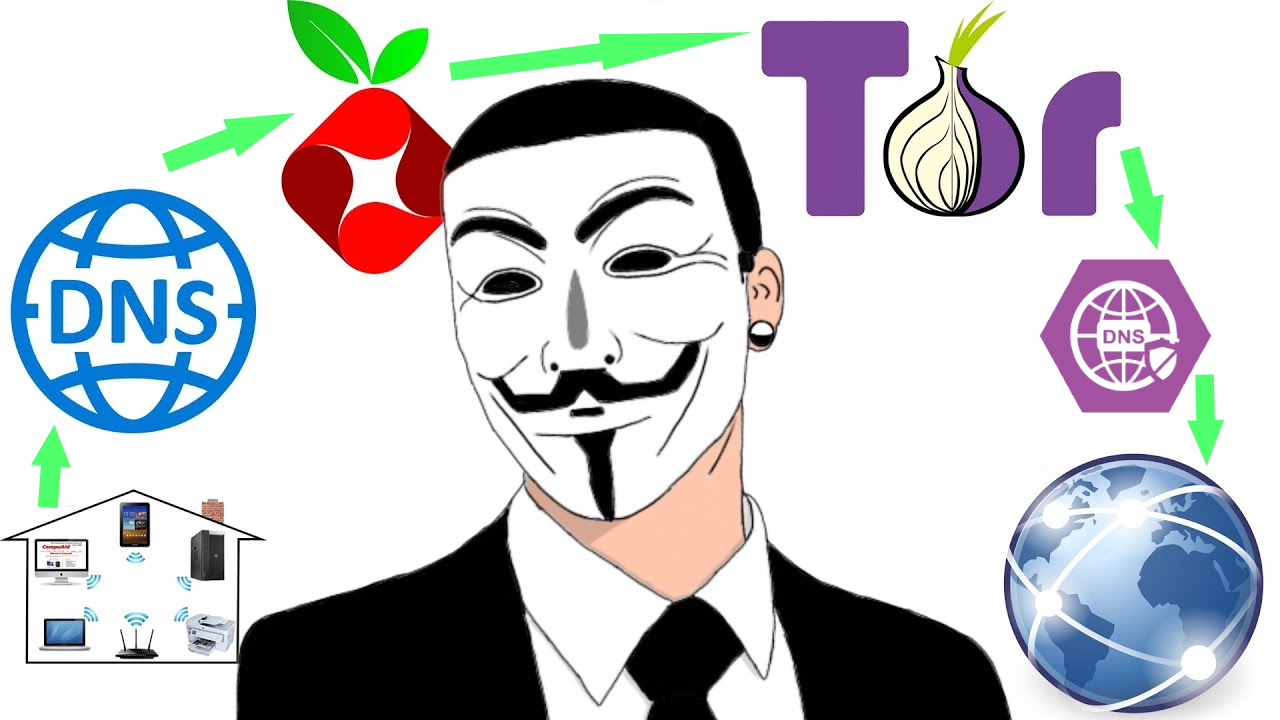
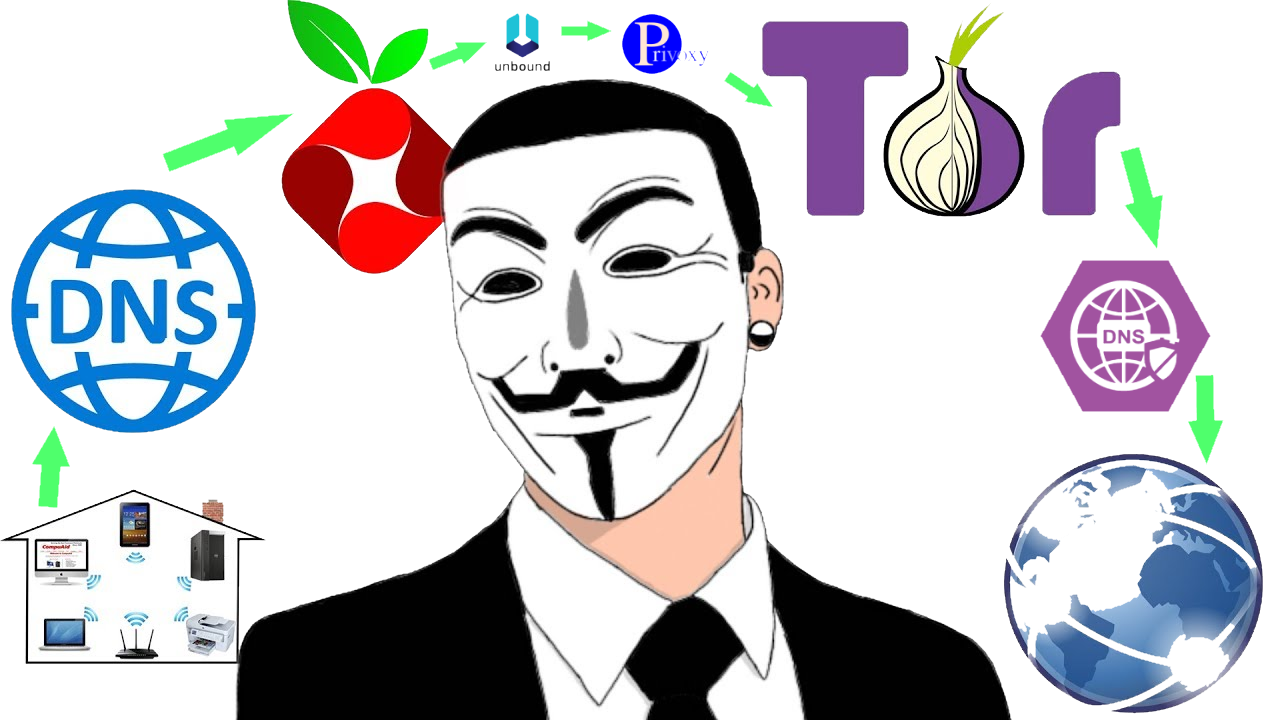
small updates to first 2 articles of the 'A little less conspicuous' series

diff --git a/_posts/2021-09-26-post-a-little-less-conspicuous-dns-part2-4.md b/_posts/2021-09-26-post-a-little-less-conspicuous-dns-part2-4.md
@@ -1,7 +1,7 @@
 ---
 title: "A little less conspicuous - Part 2: The DNS Sinkhole"
-date: 2021-09-25T20:00:00+02:00
-last_modified_at: 2021-09-25T20:00:00+02:00
+date: 2021-09-26T12:00:00+02:00
+last_modified_at: 2021-09-26T12:00:00+02:00
 header:
   # image: /assets/images/header-banner.png
   og_image: /assets/images/screen20210925005.png
@@ -15,9 +15,10 @@ tags:
   - Anonymous
   - HyperV
   - DietPi
-  - Pi-hole
-  - Unbound
   - DNS
+  - Pi-hole
+  - DNSMasq
+  - Unbound
   - DoT
   - DNS-over-TLS
 variables:
@@ -47,7 +48,7 @@ This article and follow-ups have no ambitions to totally anonymize anyone on the
 \
 The proposed setup is meant for demo purposes only and certainly not production ready without extra precautions and explanations put in place. \
 \
-The packages, distributions and commands used and referred to in this article are valid for the most recent software versions available at the date of article publication. There is no guarantee the routines described here will keep working at a later date.\
+The packages, distributions and commands used and referred to in this article are valid for the most recent software versions available at the date of article publication. There is no guarantee the routines and packages described here will keep working at a later date.\
 \
 Furthermore rest assured, since the internet (no capital here!) was created with absolutely no security or privacy in mind, it will never deliver on any promise of these concepts. But why hand-over all your data on a platter and be profiled? It's like peeing naked in the middle of Grand Central Station and have everyone stare at you, would you really? At least put on a dress and pee in a bucket underneath you, doing that some people won't even notice you are there. \
 \
@@ -138,7 +139,7 @@ You now have a running instance of a DietPI Linux distribution!
             forward-addr: 116.202.176.26@853#dot.libredns.gr    # LibreDNS (DE)
         ```
 
-      * It is possible to use your own DNS forwarders (forward-addr), but these should support DNS-over-TLS (DoT)
+      * It is possible to use your own DNS forwarders (forward-addr), but these should support DNS-over-TLS (DoT) and it is recommended they support DNSSEC validation as well.
         * Check [this list][5] for good ones.
       * Unbound will use round-robin to communicate with these forwarders so it is wise to have a few more available here, but at least two!
       * Check config: `unbound-checkconf`
@@ -217,7 +218,7 @@ You now have a running instance of a DietPI Linux distribution!
     * DHCP Server 'Client Scope' Configuration(s)
     * Router WAN configuration
   * Optional: Disable 'Outgoing WAN connections' using ports 53, 853 (TCP/UDP) for all devices except {{ page.variables.ServerIP1 }}
-    * Pi-hole will only use TCP port 853 btw, and after following part 4 of these series not even that. So you could do the blocking for your whole network at a later time or split up the proposed firewall rules
+    * Pi-hole (actually Unbound) will only use TCP port 853 btw, and after following Part 4 of these series not even that. So you could do the blocking for your whole network at a later time or split up the proposed firewall rules
   * Optional: Totally block any device with hard-coded (Secure) DNS settings from accessing the internet.
 
 **:heavy_check_mark: Congratulations** \
@@ -237,7 +238,7 @@ This series comprises of 4 parts:
 3. Part 3: [A little less conspicuous - The Tor Proxy][3] on running your own Tor SOCKS5 Proxy + Privoxy HTTP Proxy on DietPi
    * Requirements: None, can run Standalone
    * Achieves: Have the option to 'go anonymous' on the web when you want it, also for mobile devices (iOS, Android)
-4. Part 4: [A little less conspicuous - Obscure DNS traffic][4] on routing your DNS Traffic through Tor
+4. Part 4: [A little less conspicuous - Obscuring DNS traffic][4] on routing your DNS Traffic through Tor
    * Requirements: Parts 2 and 3
    * Achieves: Obscure already Secure DNS-over-TLS Traffic from your DNS resolvers
 
@@ -263,9 +264,11 @@ This series comprises of 4 parts:
 *[Privoxy]: Privoxy is a non-caching web proxy with advanced filtering capabilities for enhancing privacy.
 *[CA]: A certification authority (CA) is responsible for attesting to the identity of users, computers, and organizations. The CA authenticates an entity and vouches for that identity by issuing a digitally signed certificate. The CA can also manage, revoke, and renew certificates.
 *[FQDN]: A fully qualified domain name (FQDN), sometimes also referred to as an absolute domain name, is a domain name that specifies its exact location in the tree hierarchy of the Domain Name System (DNS). It specifies all domain levels, including the top-level domain and the root zone.
-*[DoT]: DNS over TLS
+*[DoT]: DNS over TLS (DoT) is a network security protocol for encrypting and wrapping Domain Name System queries and answers via the Transport Layer Security protocol. The goal of the method is to increase user privacy and security by preventing eavesdropping and manipulation of DNS data via man-in-the-middle attacks.
 *[DoToT]: DNS over TLS over Tor
+*[DoH]: DNS over HTTPS is a protocol for performing remote Domain Name System resolution via the common HTTPS protocol. A goal of the method is to increase user privacy and security by preventing eavesdropping and manipulation of DNS data by man-in-the-middle attacks by using the HTTPS protocol to encrypt the data between the DoH client and the DoH-based DNS resolver.
 *[IaC]: Infrastructure as Code (IaC) is the management of infrastructure (networks, virtual machines, load balancers, and connection topology) in a descriptive model, using the same versioning as DevOps team uses for source code.
+*[DNSSEC]: The Domain Name System Security Extensions is a suite of extension specifications by the Internet Engineering Task Force for securing data exchanged in the Domain Name System in Internet Protocol networks.
 
 <!-- End Abbreviations -->
 

diff --git a/_posts/2021-09-25-post-a-little-less-conspicuous-introduction-part1-4.md b/_posts/2021-09-25-post-a-little-less-conspicuous-introduction-part1-4.md
@@ -42,7 +42,7 @@ This article and follow-ups have no ambitions to totally anonymize anyone on the
 \
 The proposed setup is meant for demo purposes only and certainly not production ready without extra precautions and explanations put in place. \
 \
-The packages, distributions and commands used and referred to in this article are valid for the most recent software versions available at the date of article publication. There is no guarantee the routines described here will keep working at a later date.\
+The packages, distributions and commands used and referred to in this article are valid for the most recent software versions available at the date of article publication. There is no guarantee the routines and packages described here will keep working at a later date.\
 \
 Furthermore rest assured, since the internet (no capital here!) was created with absolutely no security or privacy in mind, it will never deliver on any promise of these concepts. But why hand-over all your data on a platter and be profiled? It's like peeing naked in the middle of Grand Central Station and have everyone stare at you, would you really? At least put on a dress and pee in a bucket underneath you, doing that some people won't even notice you are there. \
 \
@@ -89,7 +89,7 @@ For best results and certainly if you want to service an entire local area netwo
 
 ## Full architecture to be achieved
 
-This and further articles in this series all count up to the following flexible architecture where it is possible to choose a security / privacy model that suits **your** purpose. Part 2 and Part 3 can be set-up and be used 'on demand' fully separated. It is only when Part 4 is considered that both technologies presented in Part 2 and 3 are combined and required to operate together.
+This and further articles in this series all count up to the following flexible architecture where it is possible to choose a security / privacy model that suits **your** purpose. Part 2 and Part 3 can be set-up and be used 'on demand' fully separated. It is only when Part 4 is considered that both technologies presented in Part 2 and 3 are combined and as such both are required to operate together. The red texts in the architecture diagram below are specific for Part 4 of this series.
 
 As I did this setup three times, in preparation of writing this series, it only took me an hour to have the entire setup (Part 2, 3 and 4) replicated (reusing existing web server certificates exempted). all this without any further IaC optimizations I must add. Pipelining this might be worth the effort at some point (note to self).
 
@@ -130,7 +130,7 @@ This series comprises of four parts:
 3. Part 3: [A little less conspicuous - The Tor Proxy][3] on running your own Tor SOCKS5 Proxy + Privoxy HTTP Proxy on DietPi
    * Requirements: None, can run Standalone
    * Achieves: Have the option to 'go anonymous' on the web when you want it, also for mobile devices (iOS, Android)
-4. Part 4: [A little less conspicuous - Obscure DNS traffic][4] on routing your DNS Traffic through Tor
+4. Part 4: [A little less conspicuous - Obscuring DNS traffic][4] on routing your DNS Traffic through Tor
    * Requirements: Parts 2 and 3
    * Achieves: Obscure already Secure DNS-over-TLS Traffic from your DNS resolvers
 
@@ -156,9 +156,11 @@ This series comprises of four parts:
 *[Privoxy]: Privoxy is a non-caching web proxy with advanced filtering capabilities for enhancing privacy.
 *[CA]: A certification authority (CA) is responsible for attesting to the identity of users, computers, and organizations. The CA authenticates an entity and vouches for that identity by issuing a digitally signed certificate. The CA can also manage, revoke, and renew certificates.
 *[FQDN]: A fully qualified domain name (FQDN), sometimes also referred to as an absolute domain name, is a domain name that specifies its exact location in the tree hierarchy of the Domain Name System (DNS). It specifies all domain levels, including the top-level domain and the root zone.
-*[DoT]: DNS over TLS
+*[DoT]: DNS over TLS (DoT) is a network security protocol for encrypting and wrapping Domain Name System queries and answers via the Transport Layer Security protocol. The goal of the method is to increase user privacy and security by preventing eavesdropping and manipulation of DNS data via man-in-the-middle attacks.
 *[DoToT]: DNS over TLS over Tor
+*[DoH]: DNS over HTTPS is a protocol for performing remote Domain Name System resolution via the common HTTPS protocol. A goal of the method is to increase user privacy and security by preventing eavesdropping and manipulation of DNS data by man-in-the-middle attacks by using the HTTPS protocol to encrypt the data between the DoH client and the DoH-based DNS resolver.
 *[IaC]: Infrastructure as Code (IaC) is the management of infrastructure (networks, virtual machines, load balancers, and connection topology) in a descriptive model, using the same versioning as DevOps team uses for source code.
+*[DNSSEC]: The Domain Name System Security Extensions is a suite of extension specifications by the Internet Engineering Task Force for securing data exchanged in the Domain Name System in Internet Protocol networks.
 
 <!-- End Abbreviations -->
 
